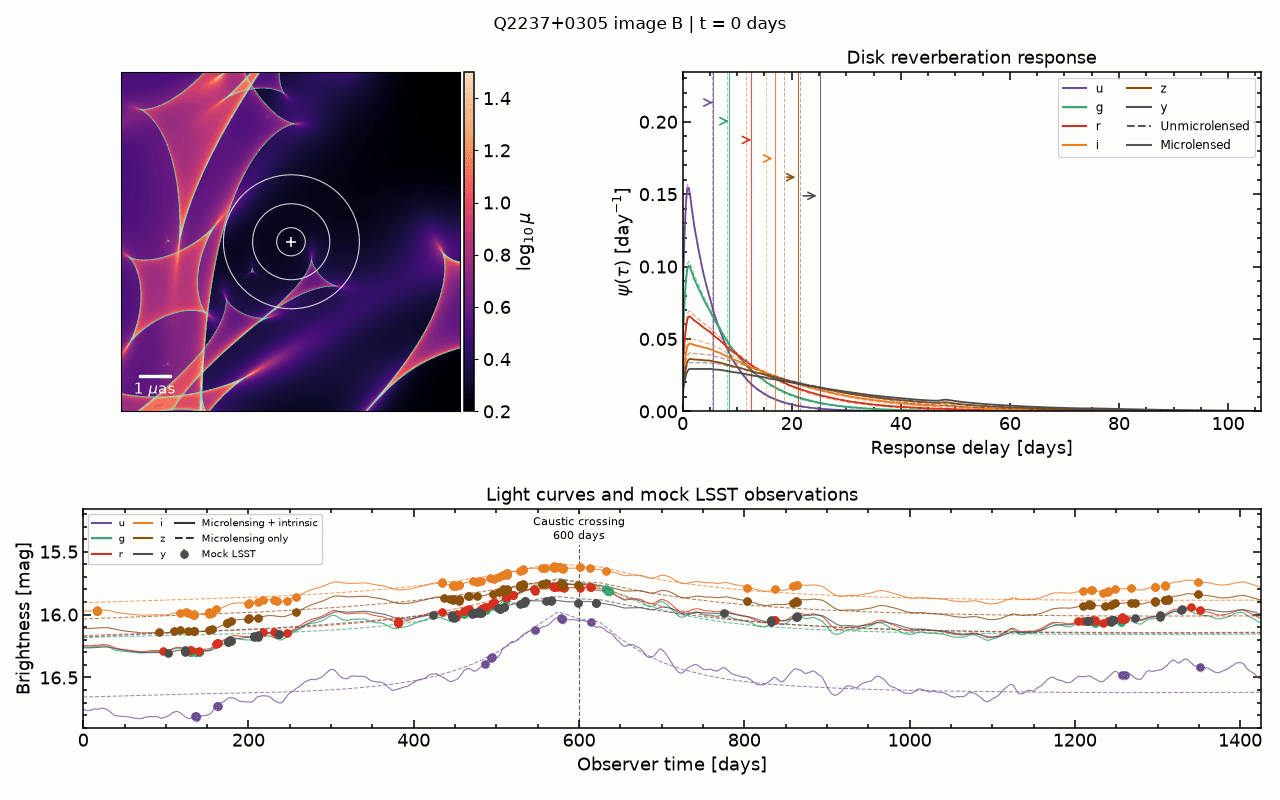
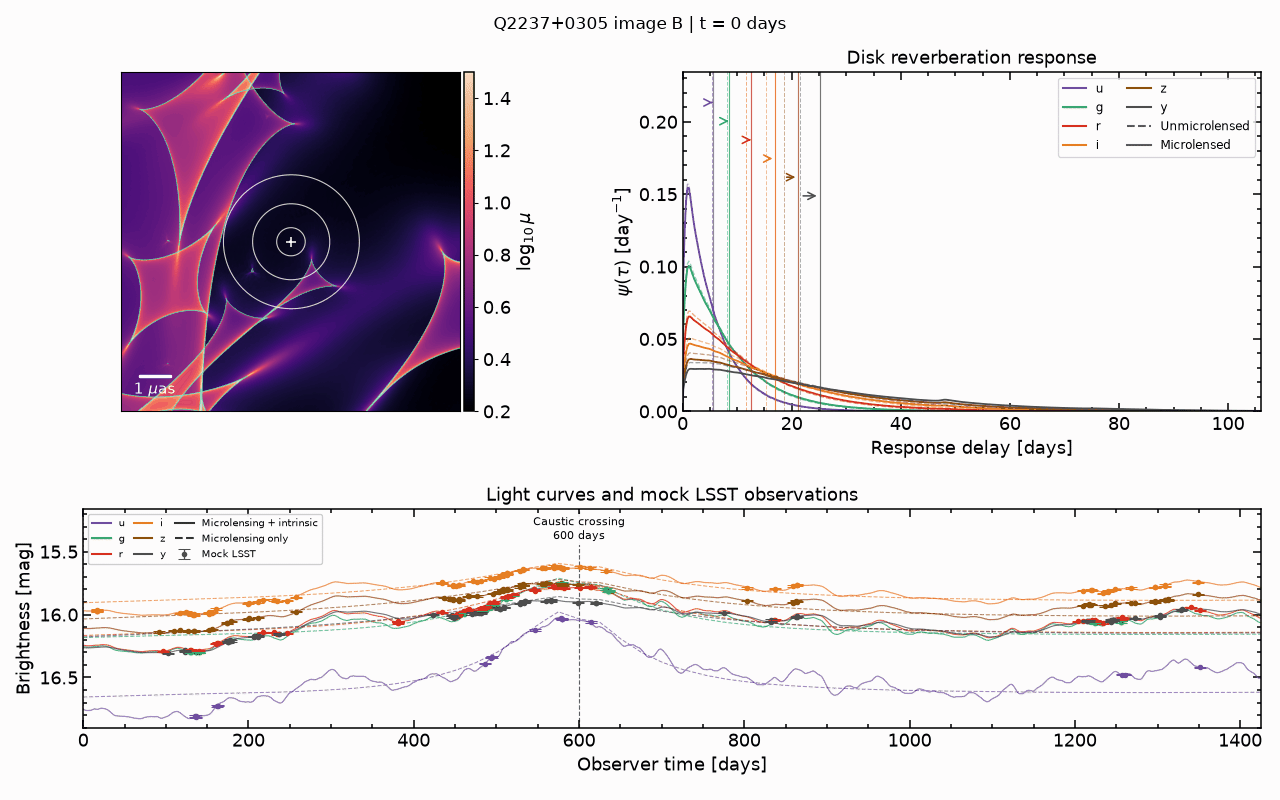
Show capped observation errors in animation legends

diff --git a/index.html b/index.html
@@ -190,23 +190,23 @@
         </div>
         <figure class="animation-figure" id="animation-transfer" data-animation-panel="transfer">
           <div class="animation-surface">
-            <img id="transfer-image" src="assets/microlensing-transfer.png?v=seed42-lsst4" data-still="assets/microlensing-transfer.png?v=seed42-lsst4" data-animation="assets/microlensing-transfer.gif?v=seed42-lsst4" alt="Simulated Q2237 image-B magnification map, six-band disk reverberation responses and daily light curves, with mock LSST observations and one labeled caustic-crossing time" width="1280" height="800" loading="lazy">
+            <img id="transfer-image" src="assets/microlensing-transfer.png?v=seed42-lsst5" data-still="assets/microlensing-transfer.png?v=seed42-lsst5" data-animation="assets/microlensing-transfer.gif?v=seed42-lsst5" alt="Simulated Q2237 image-B magnification map, six-band disk reverberation responses and daily light curves, with mock LSST observations and one labeled caustic-crossing time" width="1280" height="800" loading="lazy">
           </div>
           <div class="animation-bottom">
             <figcaption><strong>Microlensing changes more than brightness.</strong> The transfer function shows the disk’s relative response at different delays after a brief change in central illumination. Microlensing reweights this response, shifting its mean lag (arrows). Dashed curves show the unmicrolensed response and solid curves include microlensing. Below, capped points are mock LSST observations, with the caustic crossing marked at 600 days. Simulated Q2237+0305 image B.</figcaption>
             <button class="button button-play" type="button" data-play="transfer-image" aria-controls="transfer-image" aria-pressed="false" hidden><span aria-hidden="true">▶</span> Play animation</button>
           </div>
-          <noscript><p><a href="assets/microlensing-transfer.gif?v=seed42-lsst4">Open transfer-function animation (7.4 MB)</a></p></noscript>
+          <noscript><p><a href="assets/microlensing-transfer.gif?v=seed42-lsst5">Open transfer-function animation (7.4 MB)</a></p></noscript>
         </figure>
         <figure class="animation-figure" id="animation-spectrum" data-animation-panel="spectrum">
           <div class="animation-surface">
-            <img id="spectrum-image" src="assets/microlensing-spectrum.png?v=seed1003-lsst3" data-still="assets/microlensing-spectrum.png?v=seed1003-lsst3" data-animation="assets/microlensing-spectrum.gif?v=seed1003-lsst3" alt="Simulated moving microlensing map, evolving quasar spectrum, wavelength-dependent magnification, and six-band daily light curves with mock LSST observations and a labeled caustic crossing" width="1280" height="835" loading="lazy">
+            <img id="spectrum-image" src="assets/microlensing-spectrum.png?v=seed1003-lsst4" data-still="assets/microlensing-spectrum.png?v=seed1003-lsst4" data-animation="assets/microlensing-spectrum.gif?v=seed1003-lsst4" alt="Simulated moving microlensing map, evolving quasar spectrum, wavelength-dependent magnification, and six-band daily light curves with mock LSST observations and a labeled caustic crossing" width="1280" height="835" loading="lazy">
           </div>
           <div class="animation-bottom">
             <figcaption><strong>One crossing, many wavelengths.</strong> A simulated magnification pattern, evolving disk continuum, empirical emission lines, and Rubin bandpasses connect the source physics to daily multiband light curves. Points with capped error bars are mock LSST observations; the caustic-crossing time is marked. Simulated Q2237+0305 image B.</figcaption>
             <button class="button button-play" type="button" data-play="spectrum-image" aria-controls="spectrum-image" aria-pressed="false" hidden><span aria-hidden="true">▶</span> Play animation</button>
           </div>
-          <noscript><p><a href="assets/microlensing-spectrum.gif?v=seed1003-lsst3">Open spectral animation (8.6 MB)</a></p></noscript>
+          <noscript><p><a href="assets/microlensing-spectrum.gif?v=seed1003-lsst4">Open spectral animation (8.6 MB)</a></p></noscript>
         </figure>
         <p class="sr-only" id="animation-status" role="status"></p>
 
